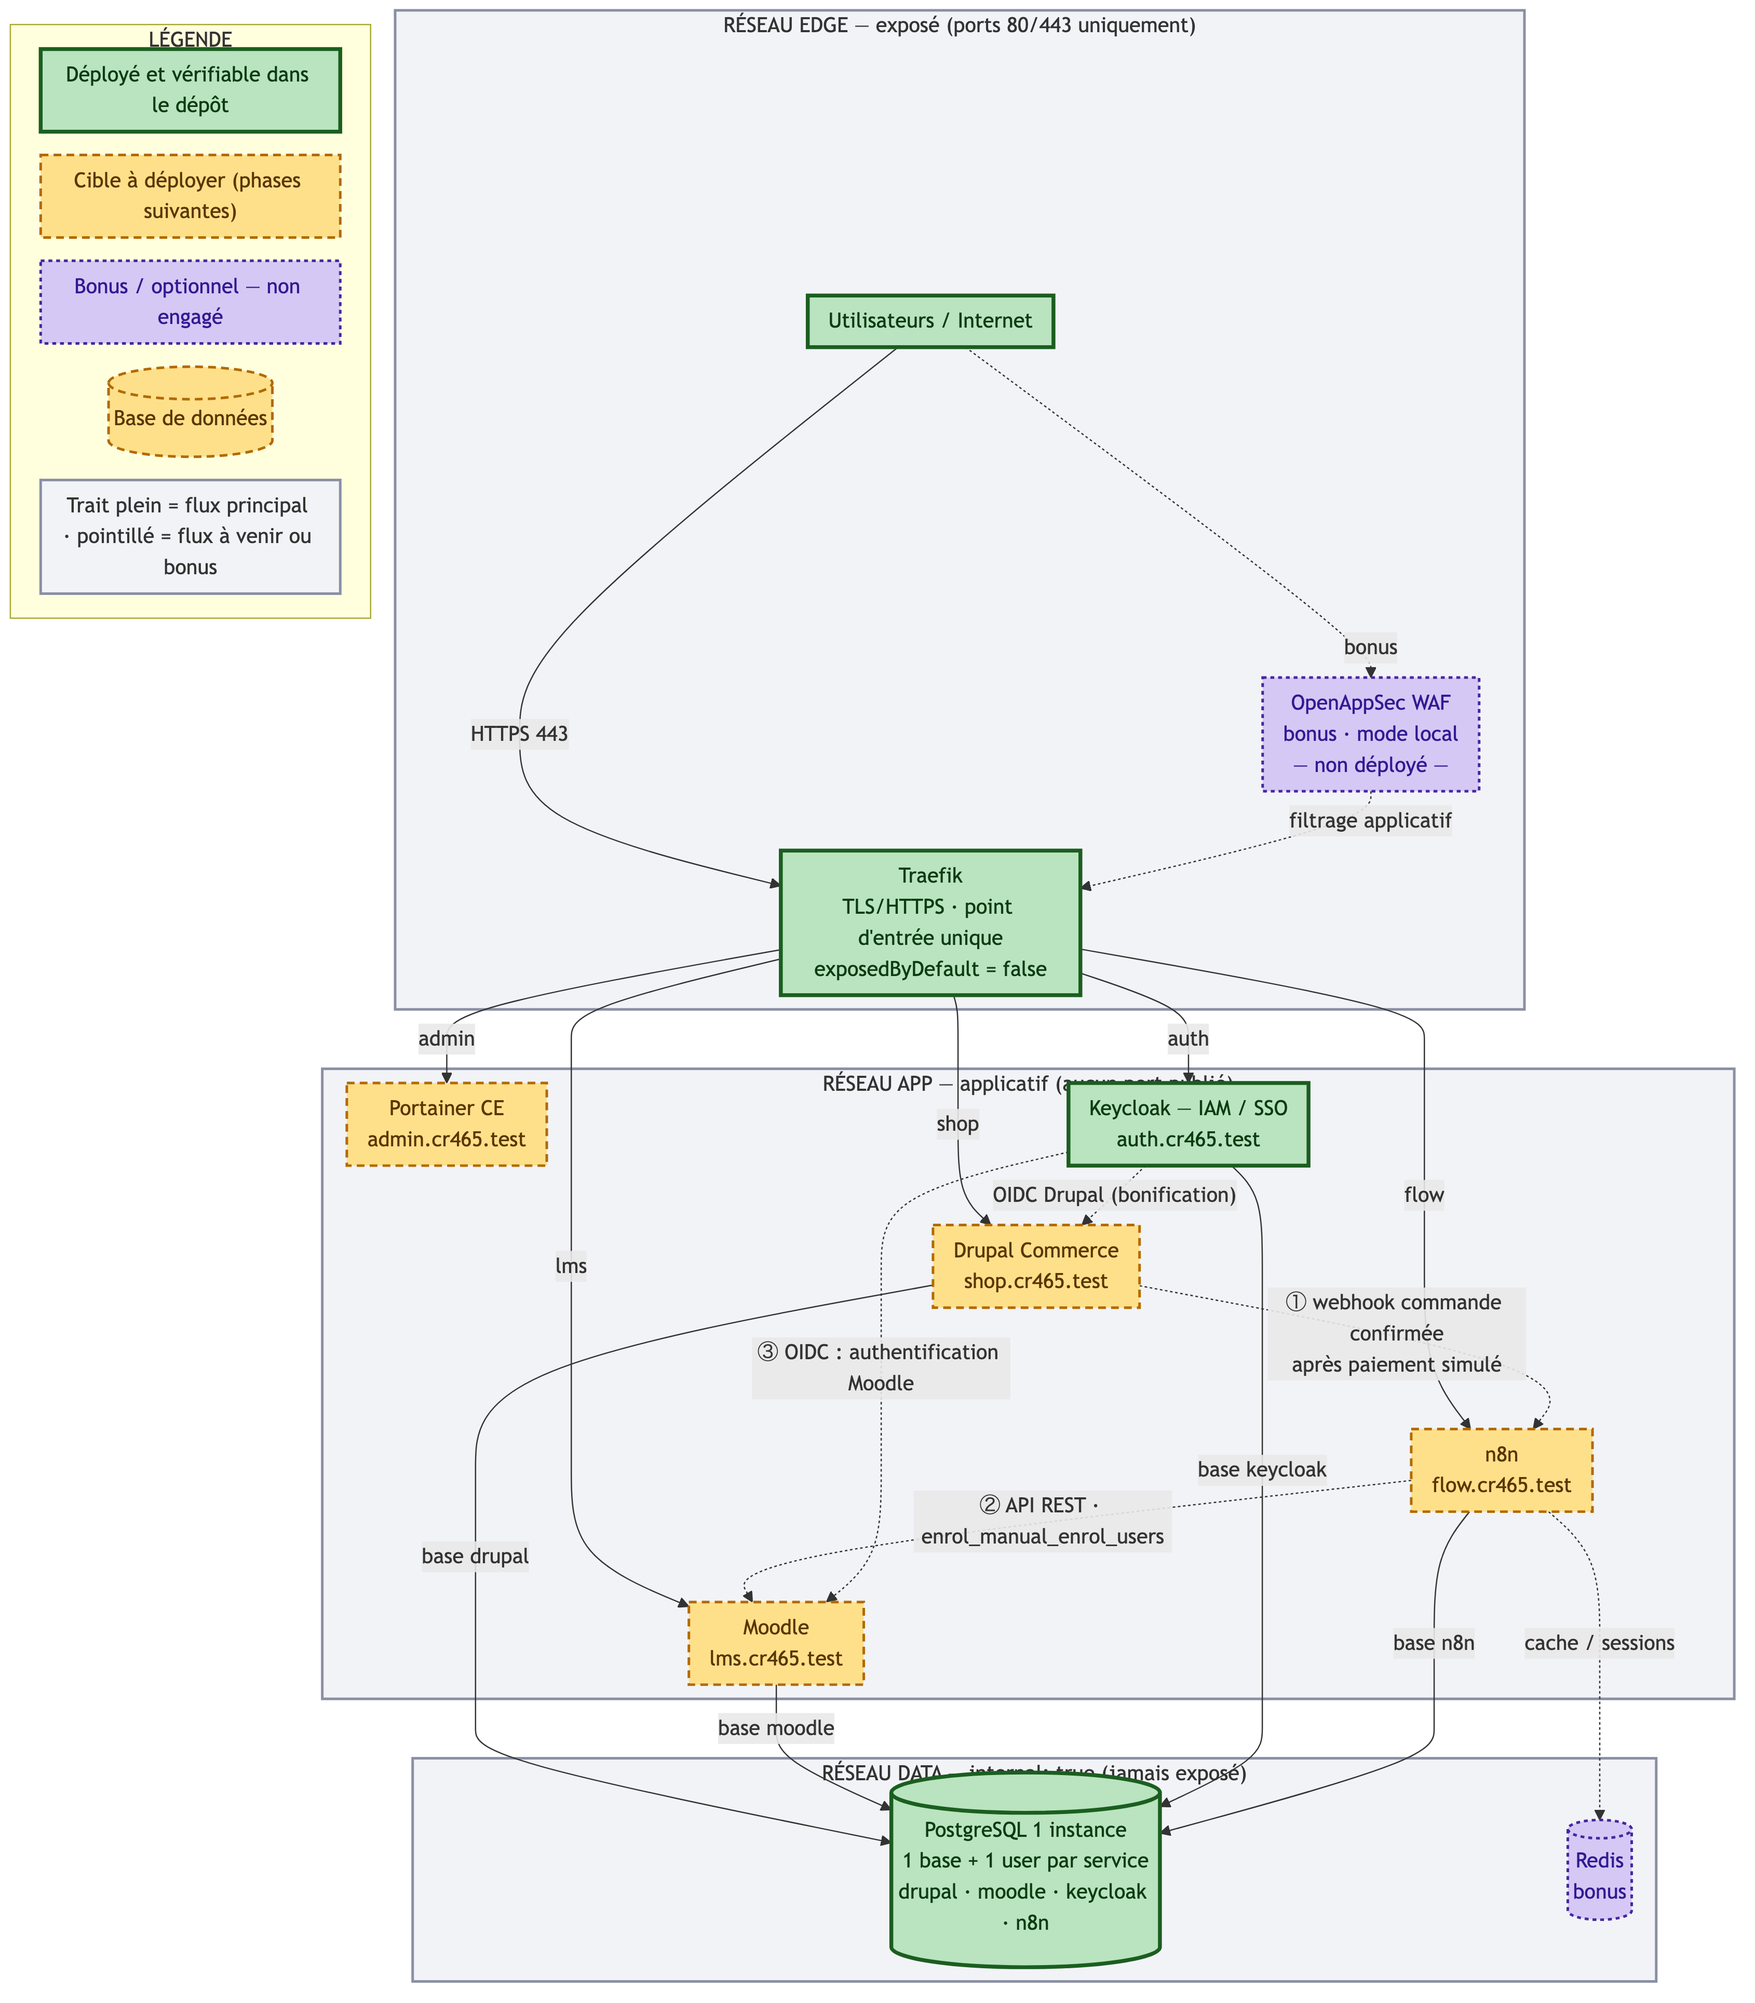
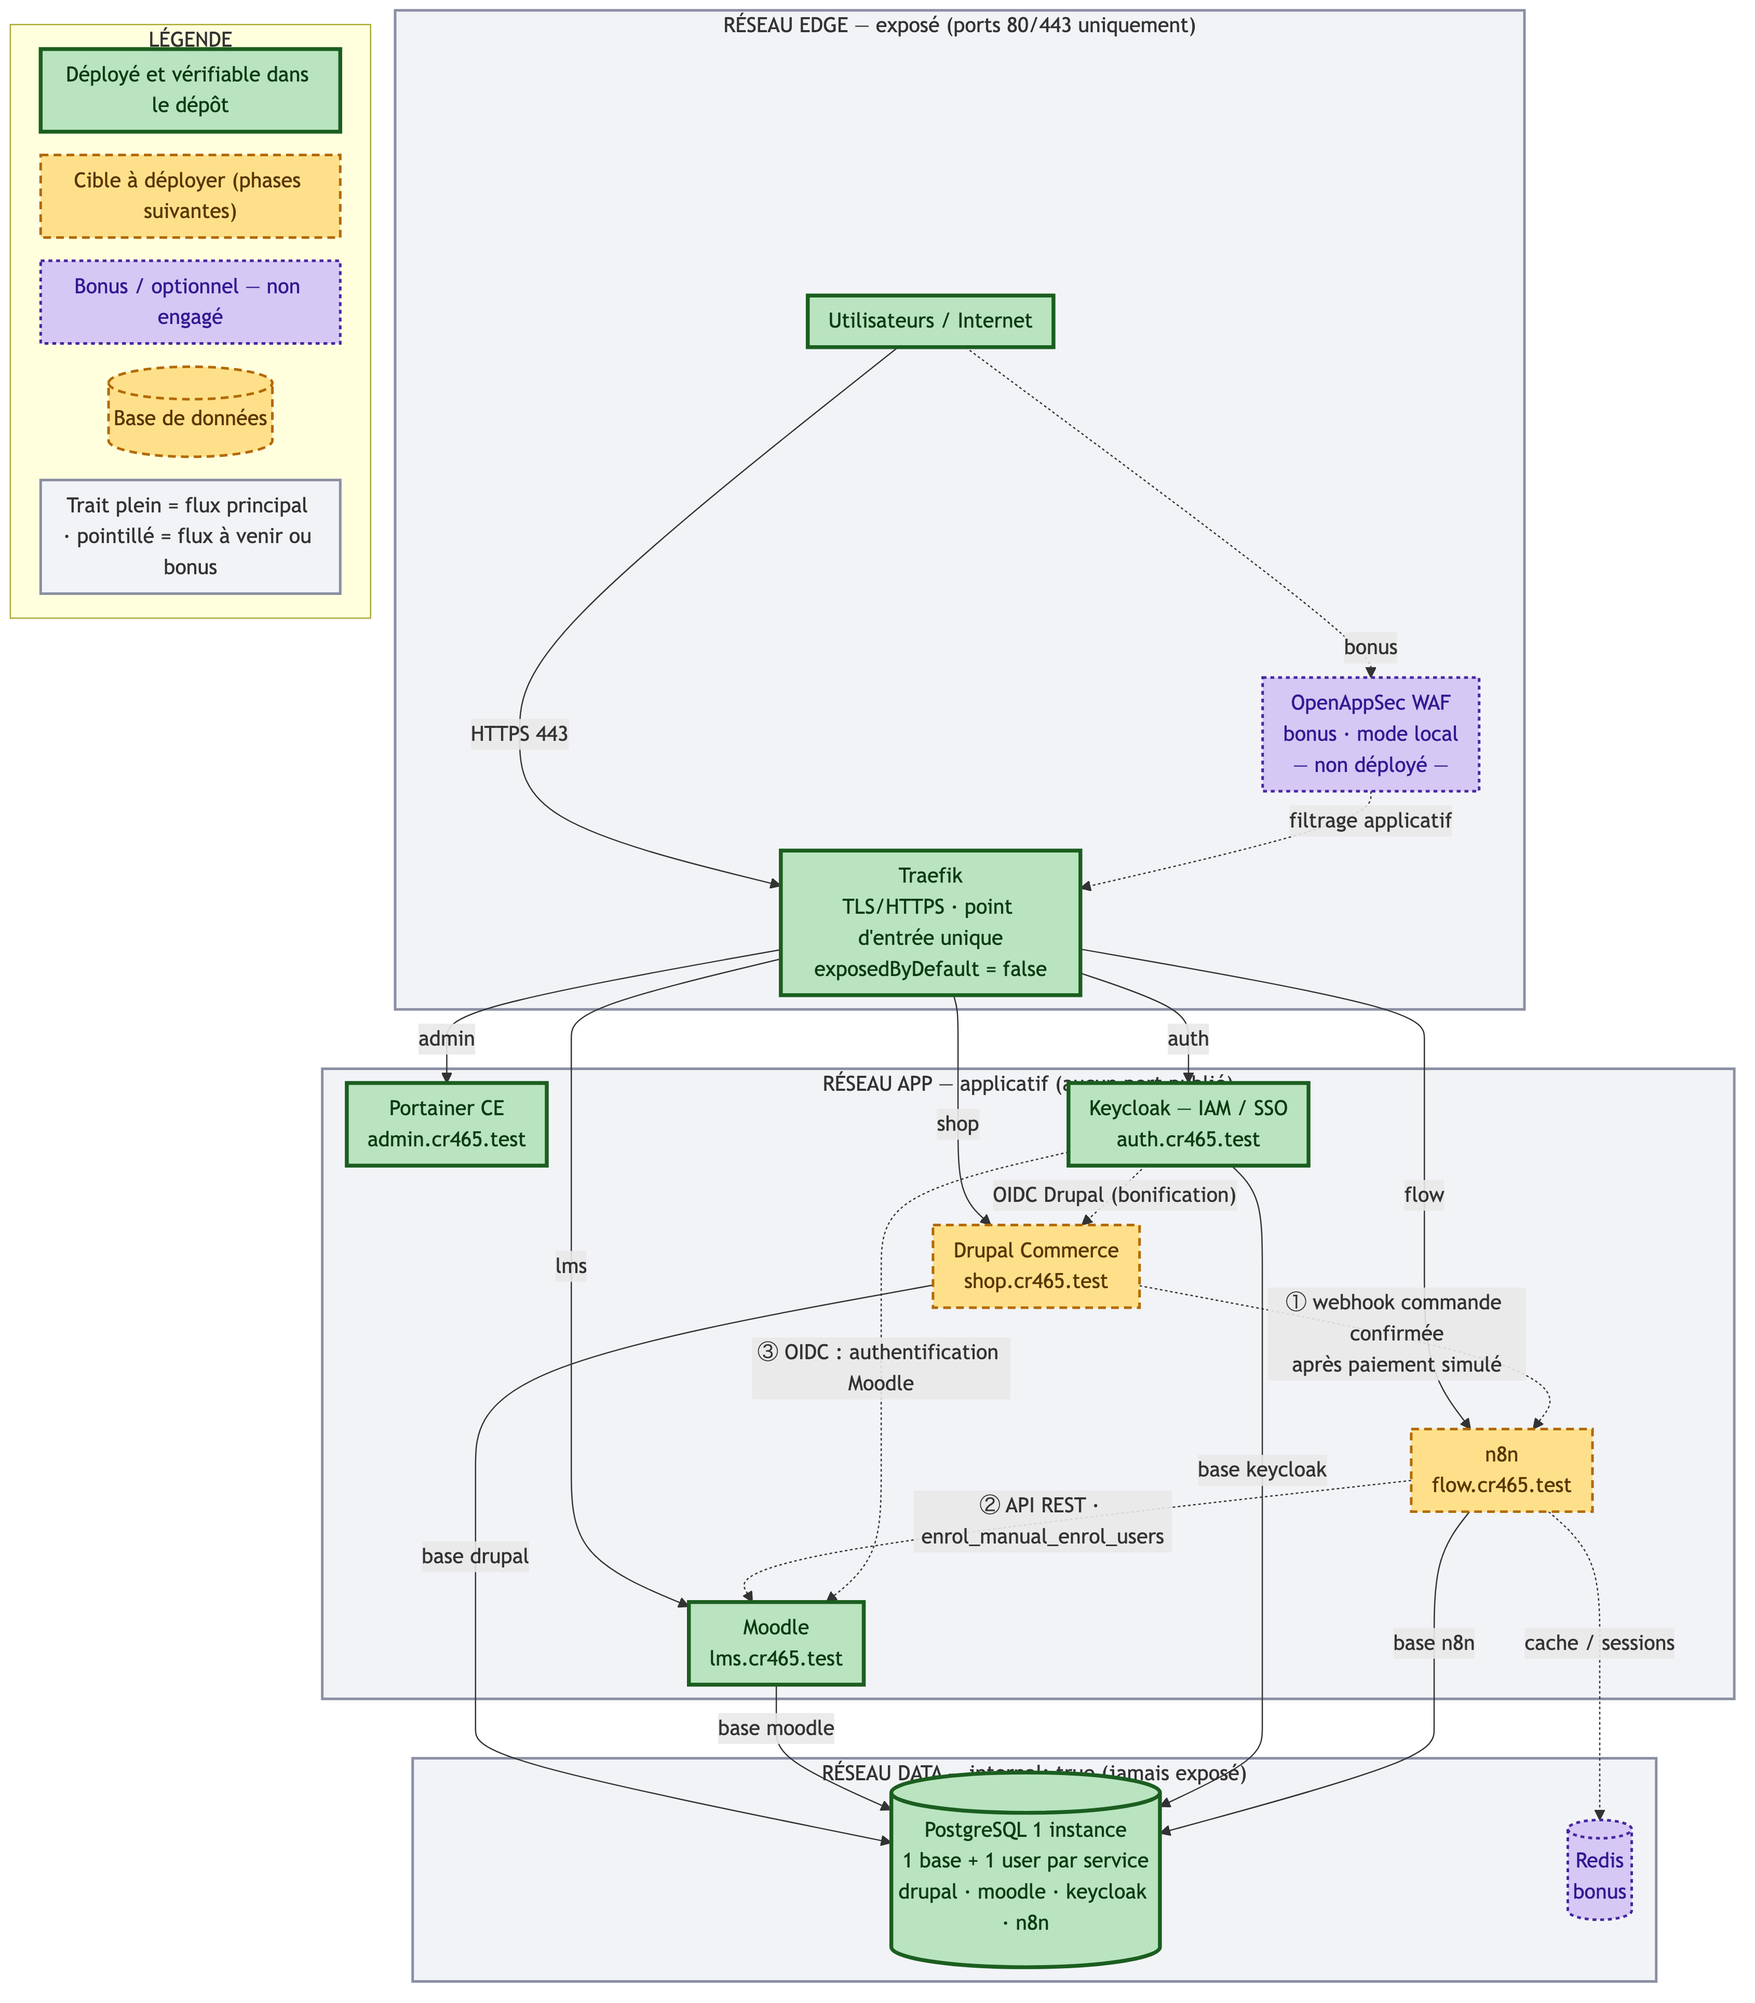
docs: Moodle et Portainer deployes, journal du sprint D
- schemas 01, 02 et 05 : Moodle et Portainer en deploye, reseau egress represente
- CHANGELOG : sprint D avec preuves d'execution et 4 incidents resolus
- securite : justification du proxy en ecriture et de la sortie egress
- README : etat d'avancement mis a jour

Changed region(s): [[0.3728, 0.7776, 0.497, 0.8398], [0.1864, 0.5288, 0.3107, 0.591]]

diff --git a/CHANGELOG.md b/CHANGELOG.md
@@ -6,6 +6,59 @@
 
 ---
 
+## Sprint D — Moodle, Portainer et sortie contrôlée (19 octobre 2026)
+
+### Ajouts
+
+| Élément | Détail |
+|---|---|
+| Service `moodle` | `erseco/alpine-moodle:v5.3.0`, installation automatique au premier démarrage (499 tables créées), nginx + php-fpm, port interne 8080 |
+| Service `portainer` | `portainer/portainer-ce:2.45.2`, connecté à `socket-proxy-admin`, accès via `admin.<domaine>` restreint par allowlist IP |
+| Service `socket-proxy-admin` | API Docker en lecture **et écriture**, réservé à Portainer, réseau `socket` |
+| Réseau `egress` | Sortie Internet contrôlée, rattachée uniquement à Moodle (dépendances) et n8n (webhooks) |
+| Volume `portainer_data` | Persistance de la configuration Portainer |
+| Volumes `moodle_data`, `moodle_html` | Persistance des données et du code Moodle |
+
+### Modifications
+
+- `compose/docker-compose.yml` : noms de réseaux explicites (`cr465_edge`, `cr465_app`, `cr465_data`, `cr465_socket`, `cr465_egress`) pour un routage déterministe.
+- `.env.example` : ajout de `ADMIN_ALLOWLIST` (IP autorisées sur les interfaces d'administration).
+- Schémas 01, 02 et 05 : Moodle et Portainer passés en « déployé », réseau `egress` représenté.
+
+### Justification
+
+- **Portainer exige l'écriture sur l'API Docker** : il ne peut pas fonctionner avec un proxy en lecture seule. D'où une seconde instance `socket-proxy-admin`, isolée et réservée à lui.
+- **Réseau `egress`** : Moodle télécharge ses dépendances Composer à l'installation ; sans sortie, l'installation échoue (`Could not resolve host: api.github.com`). L'exception est limitée à deux services et documentée.
+- **Noms de réseaux explicites** : un conteneur multi-réseaux (Moodle en a trois) doit indiquer à Traefik lequel utiliser, sinon le routeur n'est pas créé.
+- **Moodle sur port 8080** : l'image expose nginx sur 8080, pas 80 ; le label Traefik et le healthcheck ont été alignés.
+
+### Vérifications effectuées
+
+| Test | Résultat |
+|---|---|
+| Tous les conteneurs | `postgres (healthy)`, `keycloak (healthy)`, `moodle (healthy)`, `traefik (healthy)`, `portainer Up` |
+| `https://lms.cr465.test` | **303** → page de connexion Moodle (interface en français) |
+| `https://admin.cr465.test` | **307** (redirection Portainer, UI servie) |
+| `https://auth.cr465.test/realms/cr465/...` | **302** (flux OIDC) |
+| `https://whoami.cr465.test` | **200** |
+| Installation Moodle | 499 tables créées dans la base `moodle` |
+
+### Incidents rencontrés et corrigés
+
+1. `MOODLE_SITENAME` avec espaces → l'image passe la valeur en argument CLI, échec `Options non reconnues`. Corrigé en `CR465-Formation`.
+2. Moodle en échec d'installation sans Internet (réseaux `internal`) → création du réseau `egress`.
+3. Routeur Traefik absent pour Moodle → conteneur multi-réseaux : ajout de `traefik.docker.network`.
+4. Healthcheck Moodle en échec (303 interprété comme erreur) → test HTTP acceptant 2xx et 3xx.
+
+### Reste à faire (Sprint E)
+
+- Drupal Commerce (boutique, paiement simulé).
+- n8n (workflow webhook → API Moodle).
+- Module OIDC côté Moodle (brancher le client `moodle` déjà créé dans Keycloak).
+- Suppression de `whoami`, GitBook, vidéo, document de synthèse.
+
+---
+
 ## Sprint C — Socle de données et identité (19 octobre 2026)
 
 ### Ajouts

diff --git a/docs/architecture/02-segmentation-reseau.md b/docs/architecture/02-segmentation-reseau.md
@@ -32,10 +32,14 @@ flowchart TB
         REDIS[("Redis<br/>bonus")]
     end
 
+    subgraph EGR["RÉSEAU EGRESS — sortie contrôlée"]
+        EGRN["Internet sortant<br/>uniquement Moodle (dépendances)<br/>et n8n (webhooks)"]
+    end
+
     subgraph FORBID["⛔ FLUX VOLONTAIREMENT INTERDITS"]
         F1["Internet → PostgreSQL / Redis"]
         F2["Traefik → PostgreSQL"]
-        F3["Service applicatif → Internet"]
+        F3["Service applicatif → Internet<br/>hors réseau egress"]
         F4["Traefik → socket Docker brut"]
         F5["Portainer hors allowlist IP"]
     end
@@ -57,6 +61,7 @@ flowchart TB
     N8N -->|"SQL"| PG
     N8N -.->|"cache"| REDIS
 
+    MOODLE -.->|"sortie contrôlée"| EGRN
     DRUPAL -.->|"webhook commande"| N8N
     N8N -.->|"API REST"| MOODLE
     KC -.->|"OIDC"| MOODLE
@@ -75,7 +80,8 @@ flowchart TB
     class PG data
     class WAF,REDIS bonus
     class F1,F2,F3,F4,F5 interdit
-    class EDGE,APP,OPS,DATA,FORBID zone
+    class EGRN exposed
+    class EDGE,APP,OPS,DATA,EGR,FORBID zone
 
     subgraph LEG["LÉGENDE"]
         L1["Déployé et vérifiable dans le dépôt"]
@@ -100,12 +106,14 @@ flowchart TB
 | `app` | Drupal, Moodle, Keycloak, n8n | `internal: true` — aucune sortie Internet |
 | `ops` | Portainer, socket-proxy | Administration isolée, accès restreint par IP |
 | `data` | PostgreSQL (+ Redis bonus) | `internal: true`, jamais exposé, jamais routé par Traefik |
+| `socket` | Traefik ↔ socket-proxy, Portainer ↔ socket-proxy-admin | `internal: true` |
+| `egress` | Moodle, n8n | **Sortie Internet contrôlée** : seuls les services qui en ont besoin |
 
 ## Flux volontairement interdits
 
 1. Internet → PostgreSQL / Redis
 2. Traefik → PostgreSQL
-3. Service applicatif → Internet (réseaux `internal: true`)
+3. Service applicatif → Internet **hors réseau `egress`** (les autres réseaux sont `internal: true`)
 4. Traefik → socket Docker brut (passage obligé par le socket-proxy, en lecture seule)
 5. Portainer hors de la liste d'IP autorisées
 
@@ -118,6 +126,6 @@ flowchart TB
 | Réseau `socket` + `docker-socket-proxy` (`POST: 0`) | ✅ appliqué |
 | Portainer restreint par IP | 🔶 à faire au déploiement de Portainer |
 
-**Conséquence à assumer** : `app` interne signifie que **n8n ne peut pas sortir sur Internet**.
-C'est acceptable ici (paiement simulé, tous les services sont locaux). Si un appel sortant devenait
-nécessaire, créer un réseau `egress` dédié à n8n et le justifier par écrit.
+**Exception documentée** : Moodle a besoin d'Internet **pendant son installation** (dépendances
+Composer) et n8n en aura besoin pour ses webhooks sortants. Un réseau `egress` dédié a donc été
+créé et n'est rattaché qu'à ces deux services. Les autres restent strictement internes.

diff --git a/docs/architecture/05-defense-en-profondeur.md b/docs/architecture/05-defense-en-profondeur.md
@@ -17,7 +17,7 @@ flowchart TB
     C3["COUCHE 3 — APPLICATIF (app · internal)<br/>non-root · no-new-privileges · cap_drop ALL · read_only · limites · healthcheck"]
     C4["COUCHE 4 — DONNÉES (data · internal)<br/>PostgreSQL 17.11 · 1 base + 1 user par service · jamais exposé"]
     C5["COUCHE 5 — IDENTITÉ<br/>Keycloak 26.8 · realm cr465 · clients Moodle et Drupal"]
-    C6["COUCHE 6 — OBSERVABILITÉ<br/>Portainer CE · access log JSON · Loki / Grafana — bonus"]
+    C6["COUCHE 6 — OBSERVABILITÉ<br/>Portainer CE deploye · access log JSON · Loki / Grafana — bonus"]
 
     SERVICE["Service rendu à l'utilisateur légitime"]
 
@@ -39,8 +39,8 @@ flowchart TB
     classDef bookend fill:#eceff1,stroke:#37474f,stroke-width:2px,color:#263238
 
     class C1,C4 deployed
-    class C2,C3,C5 partial
-    class C0,C4,C6 toBuild
+    class C2,C3,C5,C6 partial
+    class C0 toBuild
     class MENACE,SERVICE bookend
     class G1 deployed
     class G2 partial
@@ -57,9 +57,9 @@ flowchart TB
 | 1 — HÔTE | UFW 22/80/443, SSH par clé, root off, fail2ban, unattended-upgrades, sysctl, logs Docker bornés | **Déployé** (cloud-init) |
 | 2 — PÉRIMÈTRE | Traefik TLS ≥ 1.2, `exposedByDefault=false`, HSTS, WAF bonus | **Partiel** (WAF absent) |
 | 3 — APPLICATIF | non-root, `no-new-privileges`, `cap_drop: ALL`, `read_only`, limites, healthcheck | **Appliqué** dans le compose |
-| 4 — DONNÉES | PostgreSQL jamais exposé, 1 base + 1 user par service | Cible |
-| 5 — IDENTITÉ | Keycloak OIDC, rôles, MFA possible | Cible (non configuré) |
-| 6 — OBSERVABILITÉ | Portainer, access log JSON, Loki/Grafana | Cible (absent) |
+| 4 — DONNÉES | PostgreSQL jamais exposé, 1 base + 1 user par service | **Déployé** (4 bases, 4 rôles) |
+| 5 — IDENTITÉ | Keycloak OIDC, rôles, clients Moodle/Drupal | **Déployé** (realm importé, OIDC vérifié) |
+| 6 — OBSERVABILITÉ | Portainer, access log JSON, Loki/Grafana | **Partiel** (Portainer déployé, Loki absent) |
 
 ## Risque résiduel à documenter
 

diff --git a/README.md b/README.md
@@ -16,13 +16,15 @@ Travail de session (Polytechnique Montréal, CR465 Groupe D). Architecture multi
 | socket-proxy | ✅ API Docker en lecture seule |
 | PostgreSQL | ✅ opérationnel — 4 bases + 4 utilisateurs dédiés |
 | Keycloak + realm `cr465` | ✅ opérationnel — clients `moodle` et `drupal`, rôles, OIDC vérifié |
-| Applications métier (Drupal, Moodle, n8n, Portainer) | 🔶 à déployer (phase 4) |
+| Moodle | ✅ opérationnel (Moodle 5.3, installé automatiquement, page de connexion FR) |
+| Portainer CE | ✅ opérationnel (accès `admin.<domaine>` restreint par IP) |
+| Applications métier restantes (Drupal, n8n) | 🔶 à déployer |
 | Scan d'images (Trivy) | 🔶 script fourni (`scripts/scan-images.sh`), rapports à produire |
 
 ## Pile technique
 
-**Déployé** : Traefik · socket-proxy · PostgreSQL · Keycloak (realm `cr465`) · service de test `whoami`
-**Cible** : Drupal Commerce · Moodle · n8n · Portainer CE
+**Déployé** : Traefik · socket-proxy (RO + RW) · PostgreSQL · Keycloak · Moodle · Portainer CE · service de test `whoami`
+**Cible** : Drupal Commerce · n8n
 **Bonus (non engagés)** : Redis · Grafana/Loki · OpenAppSec (WAF, mode local)
 
 > Le durcissement gVisor est **étudié mais non activé** : le script d'installation existe
@@ -61,7 +63,7 @@ cp compose/.env.example compose/.env   # puis remplir compose/.env
 | `compose/` | services et configurations Docker Compose |
 | `docs/architecture/` | schémas (architecture, segmentation, séquences, défense en profondeur) |
 | `docs/security/` | sécurité des images, durcissement, rapports de scan |
-| `docs/operations/` | procédures et incidents |
+| `docs/operations/` | ordre de déploiement, procédures et incidents |
 | `gitbook/` | documentation GitBook (livrable) |
 | `md/` | énoncé et grilles de référence (fournis) |
 | `scripts/` | lancement, déploiement, tests, scan d'images |

diff --git a/docs/security/02-durcissement-execution.md b/docs/security/02-durcissement-execution.md
@@ -42,6 +42,8 @@ depuis Traefik est refusée.
 |---|---|---|
 | L'utilisateur `adminops` est dans le groupe `docker` | Nécessaire pour piloter Docker sans `sudo` | Compte à clé SSH uniquement, root SSH désactivé, fail2ban |
 | `socket-proxy` garde un accès en lecture à l'API | Traefik en a besoin pour découvrir les conteneurs | Écriture désactivée (`POST: 0`), réseau `socket` isolé |
+| **`socket-proxy-admin` autorise l'écriture** | Portainer doit créer/arrêter des conteneurs : impossible en lecture seule | Instance séparée, réseau `socket` isolé, accès réservé à Portainer, UI restreinte par allowlist IP |
+| **Réseau `egress` ouvert** | Moodle télécharge ses dépendances à l'installation ; n8n doit joindre des webhooks | Réseau dédié rattaché à ces deux services seulement, tous les autres restent `internal: true` |
 | `whoami` n'a pas de healthcheck | Image `scratch` : aucun binaire interne pour tester | Healthcheck Traefik + `scripts/test-routing.sh` |
 | Certificat TLS auto-signé | Pas de nom de domaine public dans ce travail | Documenté ; remplaçable par Let's Encrypt en production |
 | Keycloak non `read_only` | Reconstruction Quarkus au premier démarrage | Utilisateur non-root, volume dédié, limites de ressources |

diff --git a/docs/architecture/01-architecture-generale.md b/docs/architecture/01-architecture-generale.md
@@ -67,8 +67,8 @@ flowchart TB
     classDef bonus fill:#d6c8f5,stroke:#4527a0,stroke-width:2px,stroke-dasharray:3 3,color:#311b92
     classDef zone fill:#f2f3f7,stroke:#8a8fa3,stroke-width:2px
 
-    class USERS,TRAEFIK,PG,KEYCLOAK deployed
-    class PORTAINER,DRUPAL,N8N,MOODLE toBuild
+    class USERS,TRAEFIK,PG,KEYCLOAK,MOODLE,PORTAINER deployed
+    class DRUPAL,N8N toBuild
     class WAF,REDIS bonus
 
     class EDGE,APP,DATA zone
